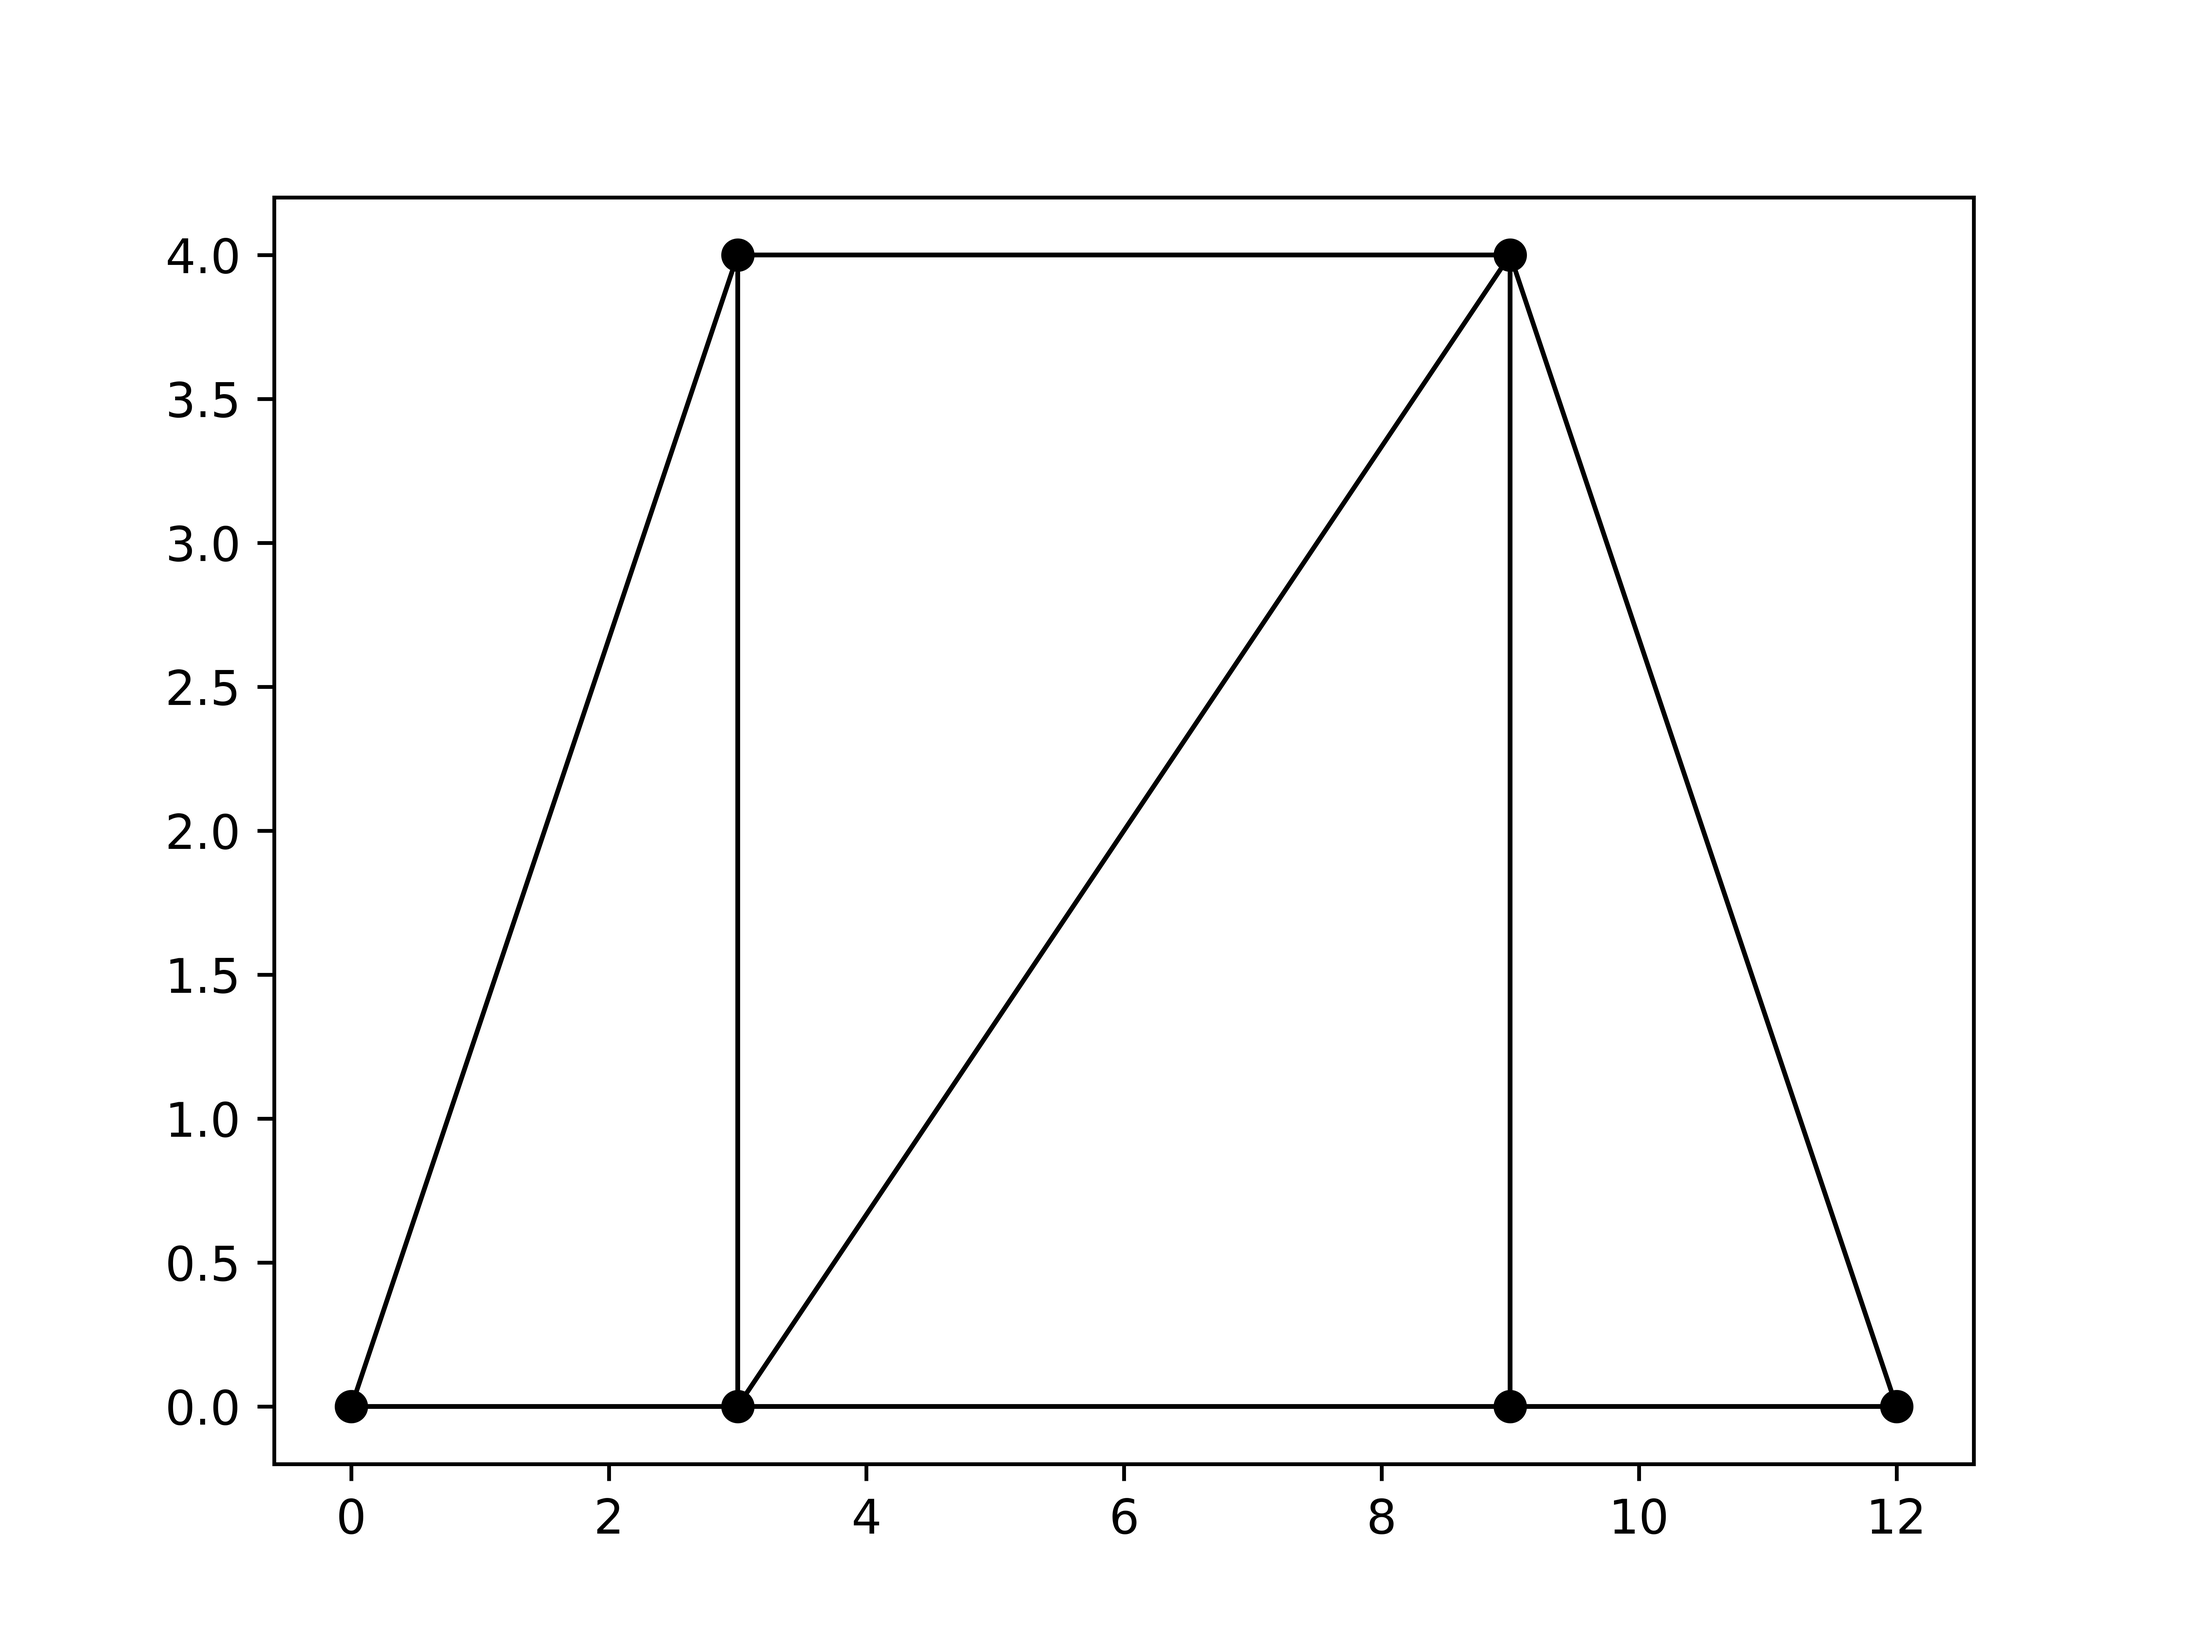
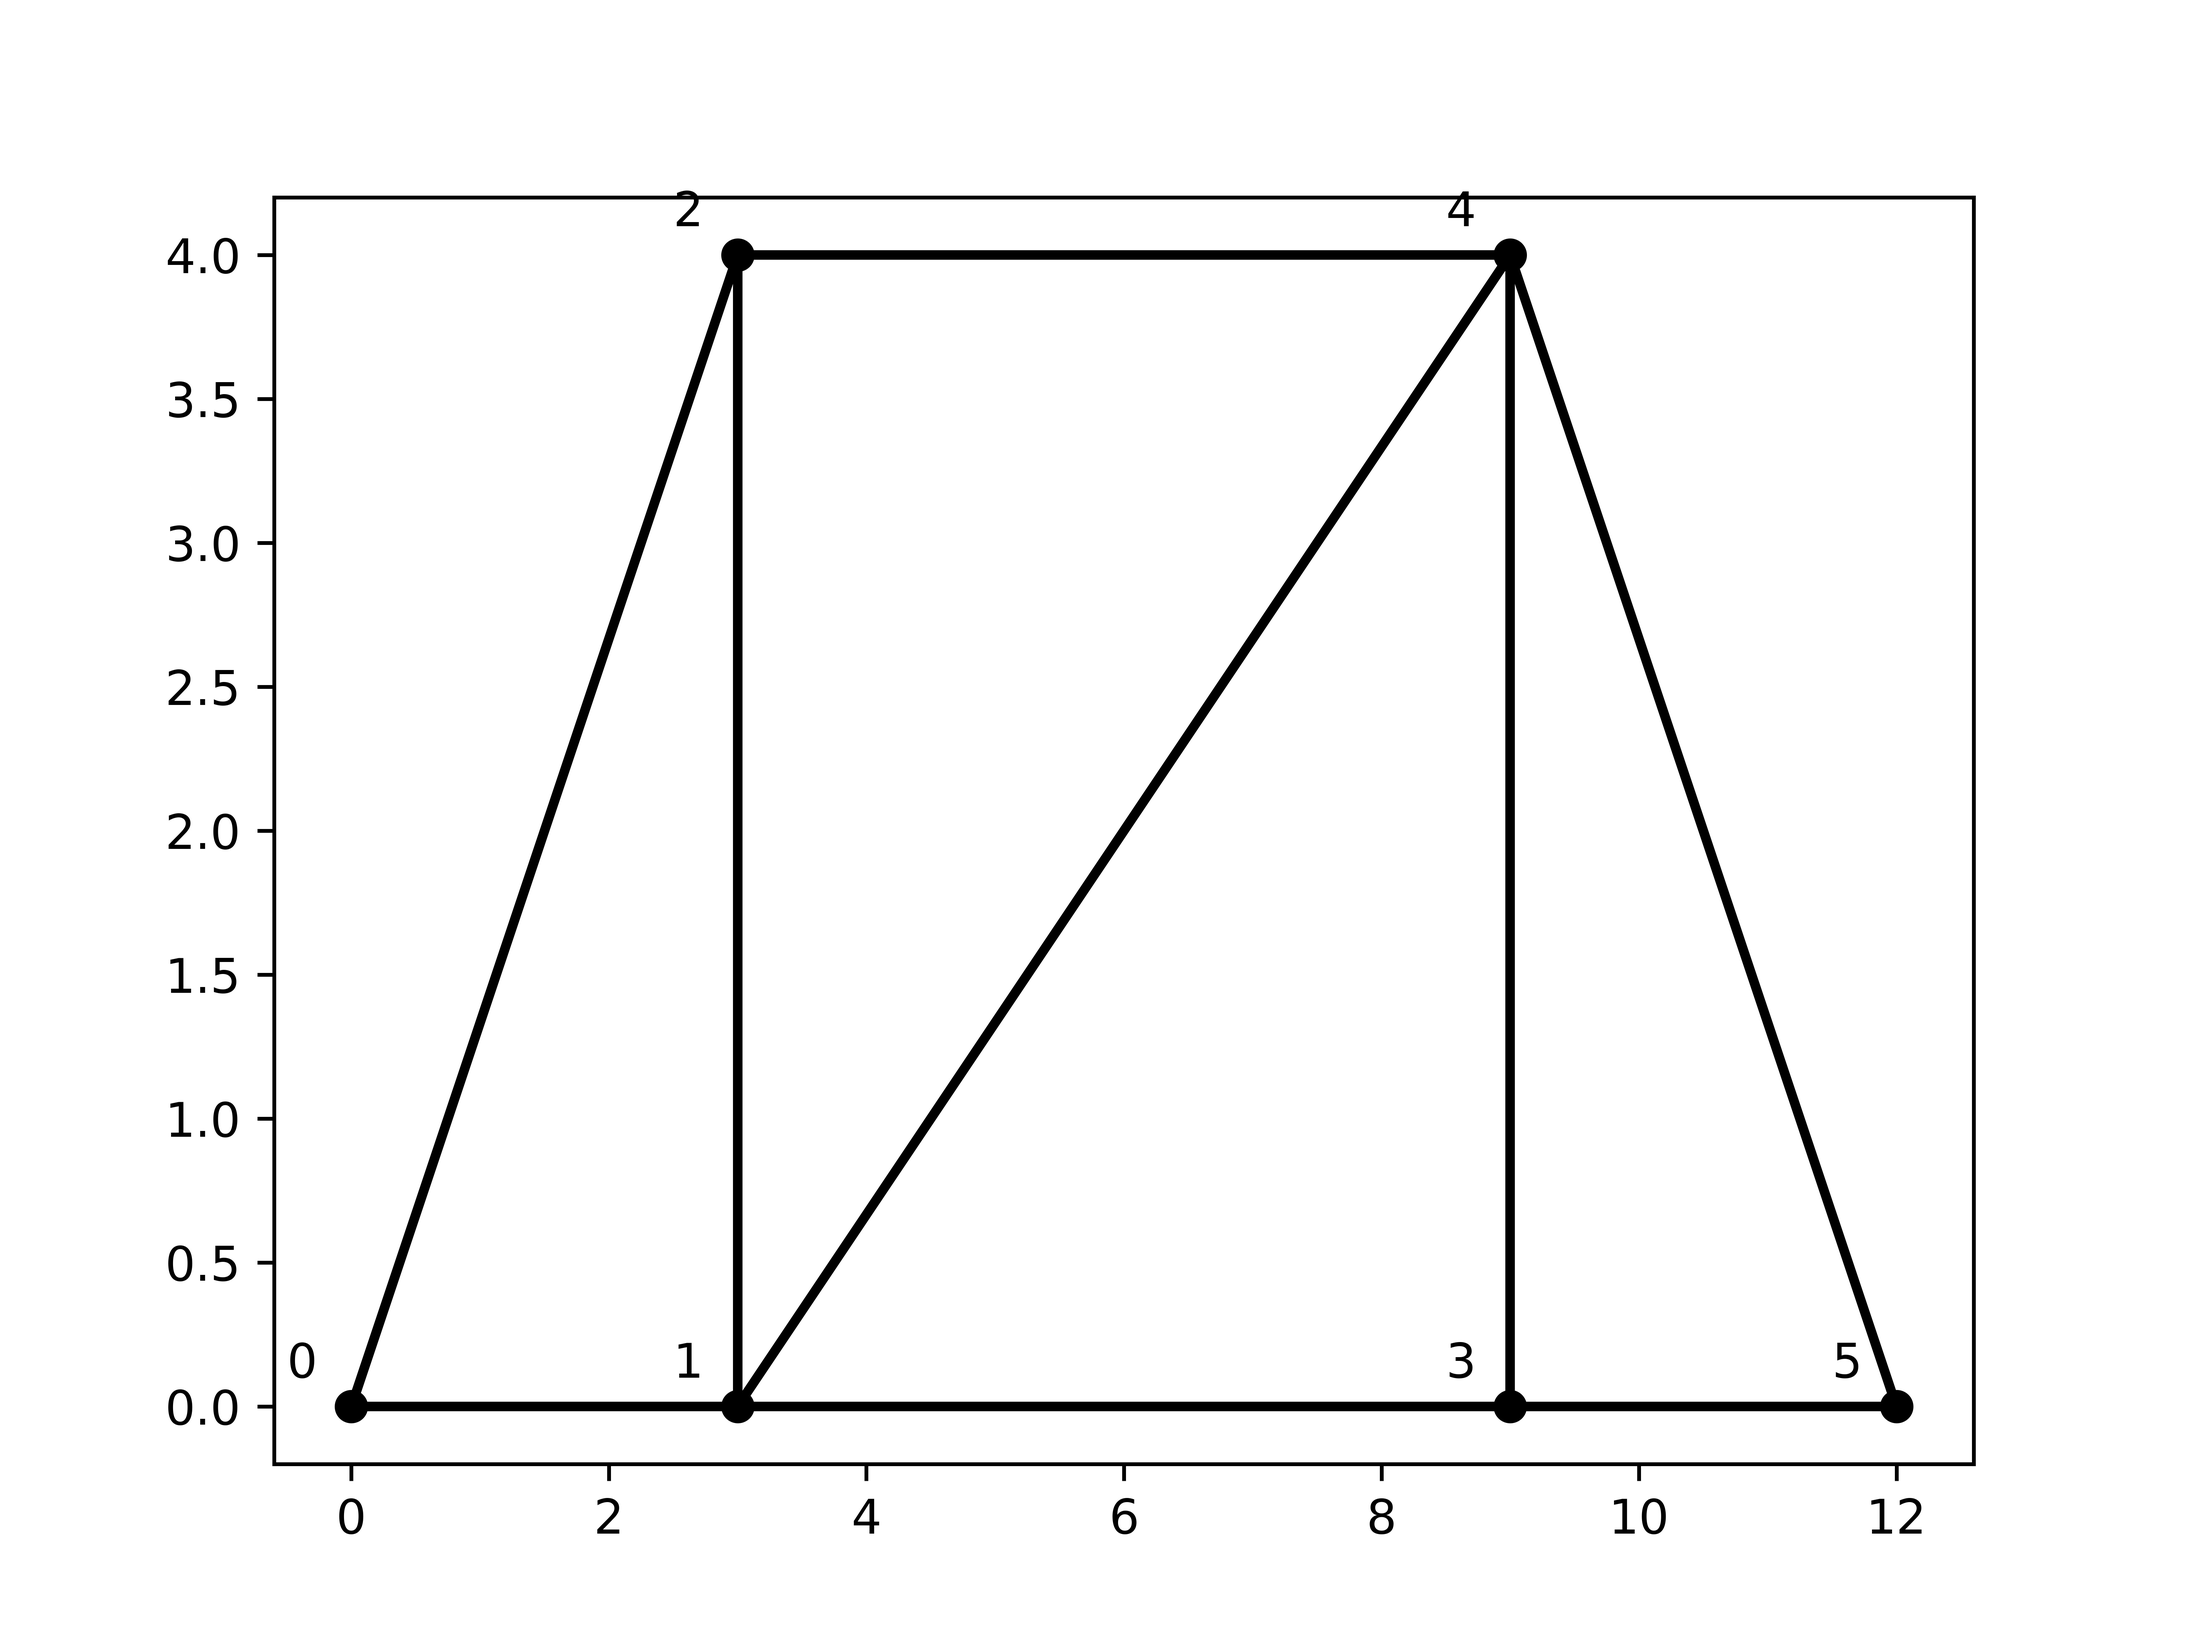
Added nodes numbers

diff --git a/py/showConnections.py b/py/showConnections.py
@@ -28,6 +28,7 @@ class App:
                 subElement = subElement.replace(']','')
                 elementToAppend.append(float(subElement))
             self._nodes.append(elementToAppend)
+        self._nodesAsList = self._nodes.copy()
         self._nodes = sciarray(self._nodes)
         #Processing connections
         self._connections = []
@@ -44,6 +45,10 @@ class App:
     def showConnections(self):
         #Plotting nodes
         pt.plot(self._nodes[:, 0], self._nodes[:, 1], "ok")
+        i=0
+        for node in self._nodesAsList:
+            pt.text(node[0]-0.5, node[1]+0.1, i)
+            i+=1
         k=0
         for bar in self._connections:
             x = self._nodes[bar,0]

diff --git a/py/showNodes.py b/py/showNodes.py
@@ -27,11 +27,16 @@ class App:
                 subElement = subElement.replace(']','')
                 elementToAppend.append(float(subElement))
             self._nodes.append(elementToAppend)
+        self._nodesAsList = self._nodes.copy()
         self._nodes = sciarray(self._nodes)
     
     def showNodes(self):
         #Plotting nodes
         pt.plot(self._nodes[:, 0], self._nodes[:, 1], "ok")
+        i=0
+        for node in self._nodesAsList:
+            pt.text(node[0]-0.5, node[1]+0.1, i)
+            i+=1
         pt.savefig(pt.savefig('nodes/nodes.jpg',dpi=1000,quality=95,format='jpg',optimize=True))
         print('Done')
         exit(0)

diff --git a/py/showForces.py b/py/showForces.py
@@ -63,6 +63,10 @@ class App:
         #Plotting nodes
         #All elements of Column 0 and 1
         pt.plot(self._nodes[:, 0], self._nodes[:, 1], "ok")
+        i=0
+        for node in self._nodesAsList:
+            pt.text(node[0]-0.5, node[1]+0.1, i)
+            i+=1
         k=0
         #Plotting connections
         for bar in self._connections:
